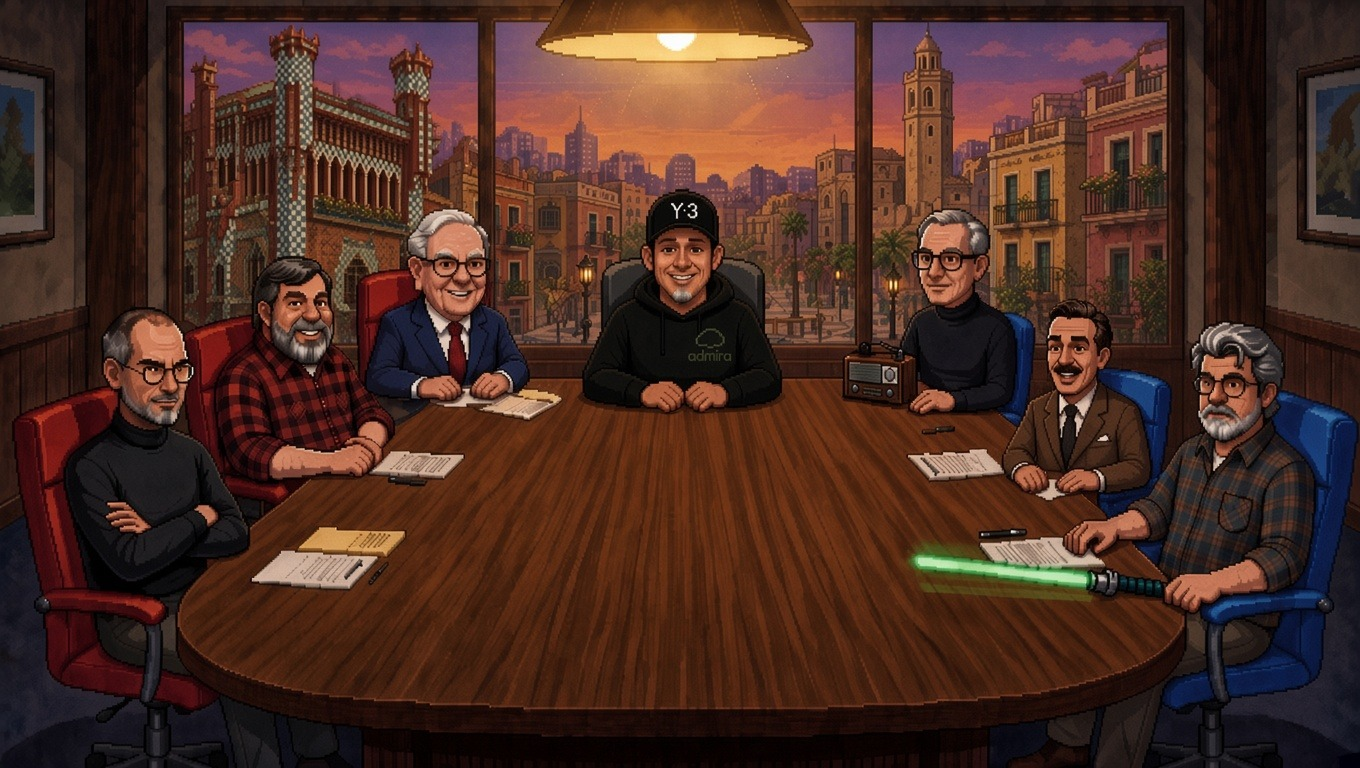
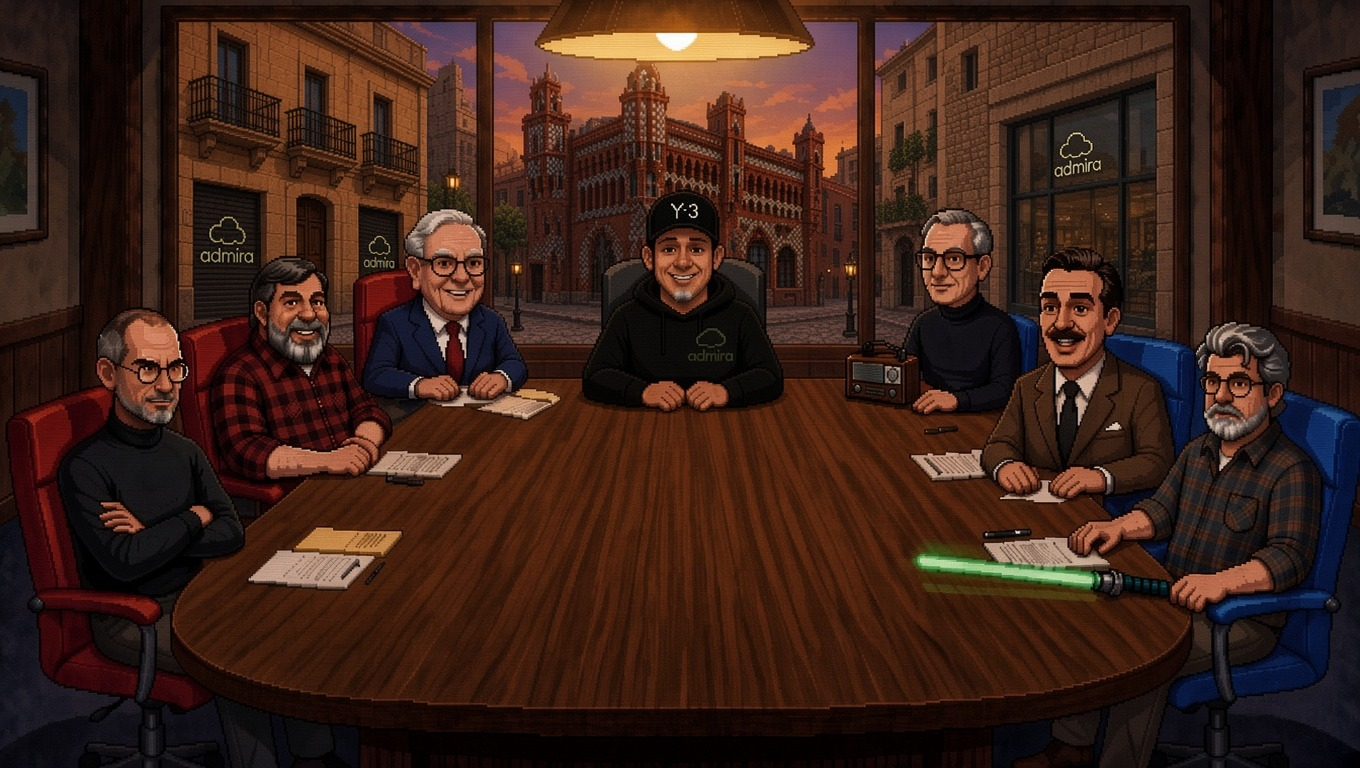
Leyendas: ventanales Planeta 7, Casa Vicens y garaje Santa Rosa

diff --git a/index.html b/index.html
@@ -3739,7 +3739,7 @@ body.rail-open{overflow:hidden}
 
         <div class="stage-row">
         <div class="council-image" data-generation="leyendas">
-            <img id="council-img" src="assets/council-leyendas.jpg?v=20261105-carlos9" alt="Consejo AdmiraNext" onload="this.closest('.council-image')&&this.closest('.council-image').classList.add('loaded')">
+            <img id="council-img" src="assets/council-leyendas.jpg?v=20261106-carlos10" alt="Consejo AdmiraNext" onload="this.closest('.council-image')&&this.closest('.council-image').classList.add('loaded')">
             <nav class="council-generation" aria-label="Generación del Consejo">
                 <button type="button" data-council-generation="leyendas" aria-label="Cuadro: cambiar de consejo (Leyendas ↔ Coetáneos)" aria-pressed="true" title="Cambiar de consejo · Leyendas ↔ Coetáneos" data-en-aria-label="Frame: switch council (Legends ↔ Contemporaries)" data-en-title="Switch council · Legends ↔ Contemporaries"><span data-en="★ Legends">★ Leyendas</span></button>
                 <button type="button" data-council-generation="coetaneos" aria-label="Cuadro: cambiar de consejo (Leyendas ↔ Coetáneos)" aria-pressed="false" title="Cambiar de consejo · Leyendas ↔ Coetáneos" data-en-aria-label="Frame: switch council (Legends ↔ Contemporaries)" data-en-title="Switch council · Legends ↔ Contemporaries"><span data-en="🚀 Contemporaries">🚀 Coetáneos</span></button>
@@ -4589,7 +4589,7 @@ body.rail-open{overflow:hidden}
 <script defer src="/assets/cli-ayuda.js?v=20261011-5707-selector"></script>
 <link rel="stylesheet" href="/assets/webcam.css?v=20261014-5863">
 <script defer src="/assets/webcam.js?v=20261014-5863"></script>
-<script defer src="app.flt-100529.js?v=20261105-carlos9"></script>
+<script defer src="app.flt-100529.js?v=20261106-carlos10"></script>
 <script defer src="council-preview.js?v=20260921-ultra1"></script>
 <script defer src="council-composer.js?v=20261009-r9-paste"></script>
 <script defer src="council-working.js?v=20260930-flt101302"></script>

diff --git a/app.flt-100529.js b/app.flt-100529.js
@@ -261,7 +261,7 @@
     let currentGen = "leyendas";
     let speakerTurnMap = {};
     let activeLegendPersona = "Steve Jobs";
-    const COUNCIL_IMAGE_VERSION = "20261105-carlos9";
+    const COUNCIL_IMAGE_VERSION = "20261106-carlos10";
     const LEGEND_MANDATES = {
         "Steve Jobs": {
             short: "foco producto",
